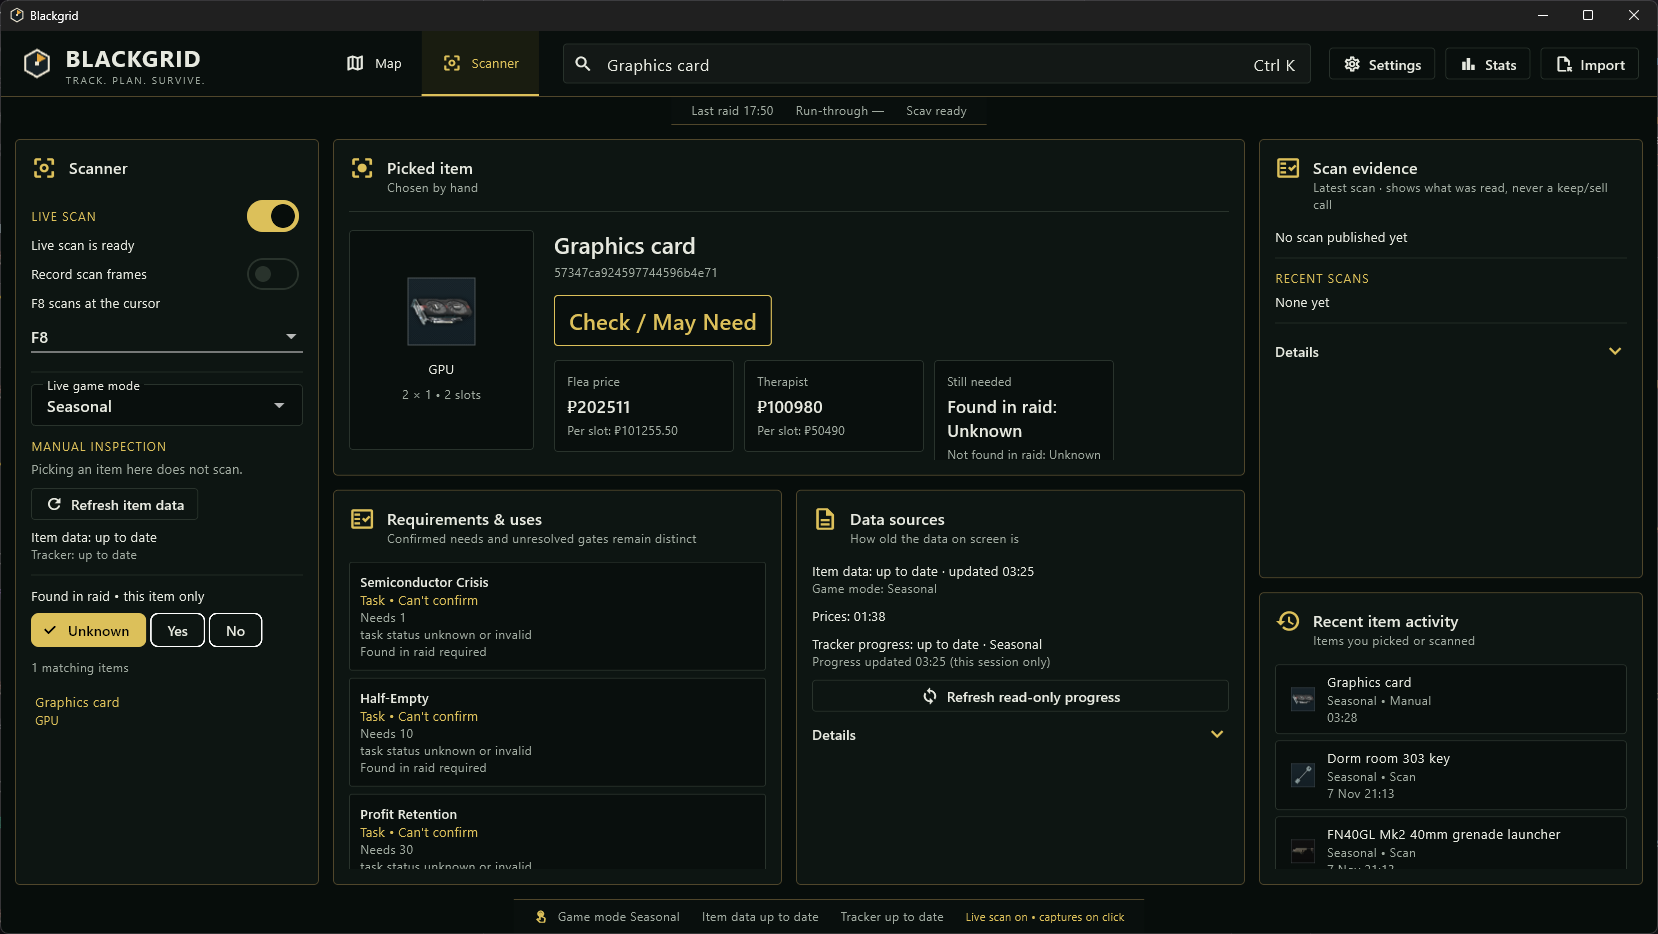
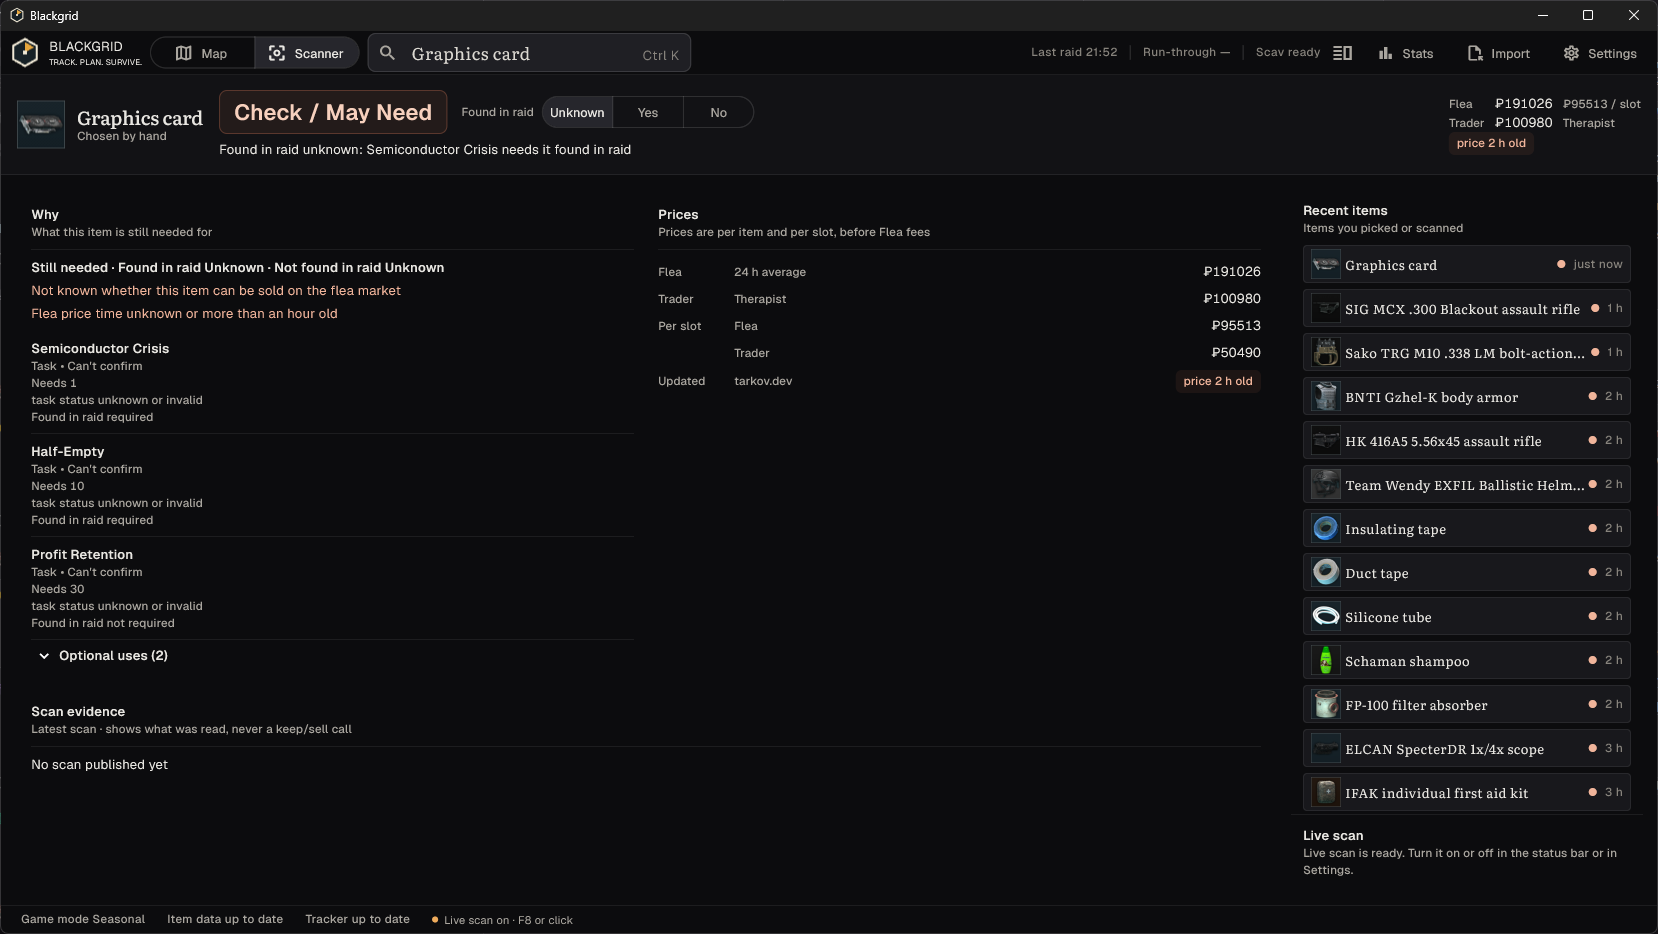
docs(readme): refresh the Map and Scanner screenshots (#108)
Retake both README screenshots on the v0.8.5 build so they show the
Ember layout and the answer strip. The map caption now names the
markers the shot shows.

diff --git a/README.md b/README.md
@@ -6,7 +6,7 @@ Blackgrid is a helper app for Escape from Tarkov that runs next to the game on W
 
 | Map | Scanner |
 |---|---|
-| ![Map area: Reserve with place labels, extracts, transits, locks and loot markers, and floor buttons](docs/screenshots/map.png) | ![Scanner area: advice for a Graphics card, with prices, the quests that need it, and recent items](docs/screenshots/scanner.png) |
+| ![Map area: Reserve with place labels, extracts, transits and spawns, floor buttons, and the marker filters](docs/screenshots/map.png) | ![Scanner area: advice for a Graphics card, with prices, the quests that need it, and recent items](docs/screenshots/scanner.png) |
 
 ## What Blackgrid does
 
